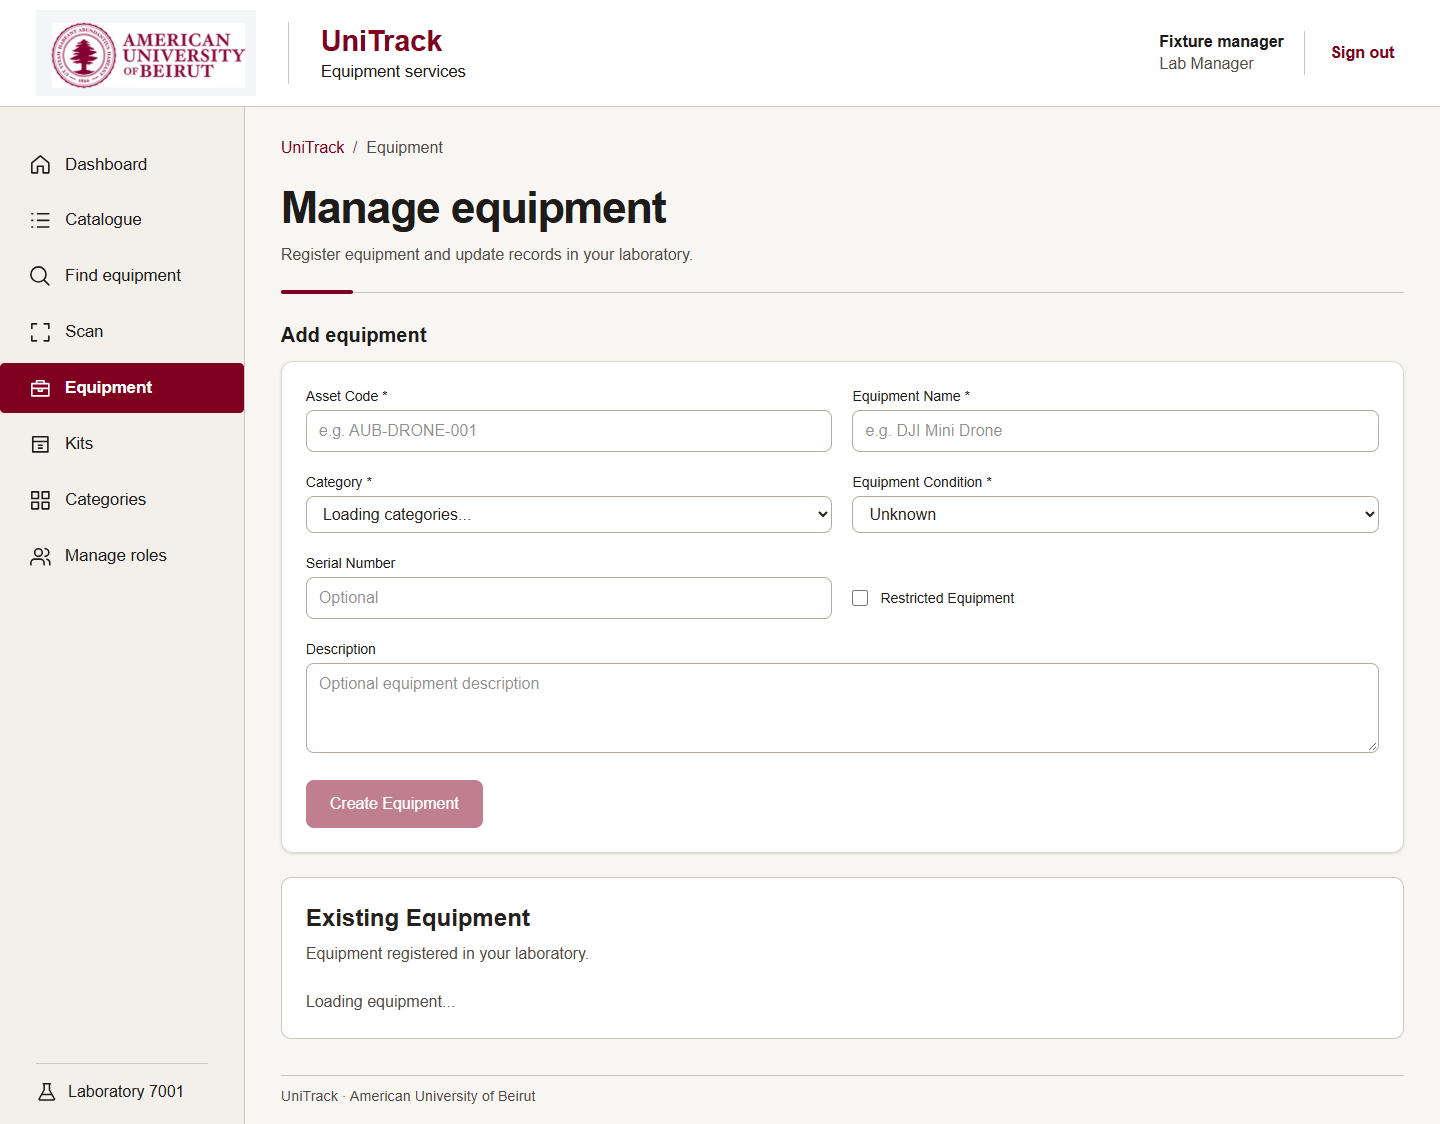
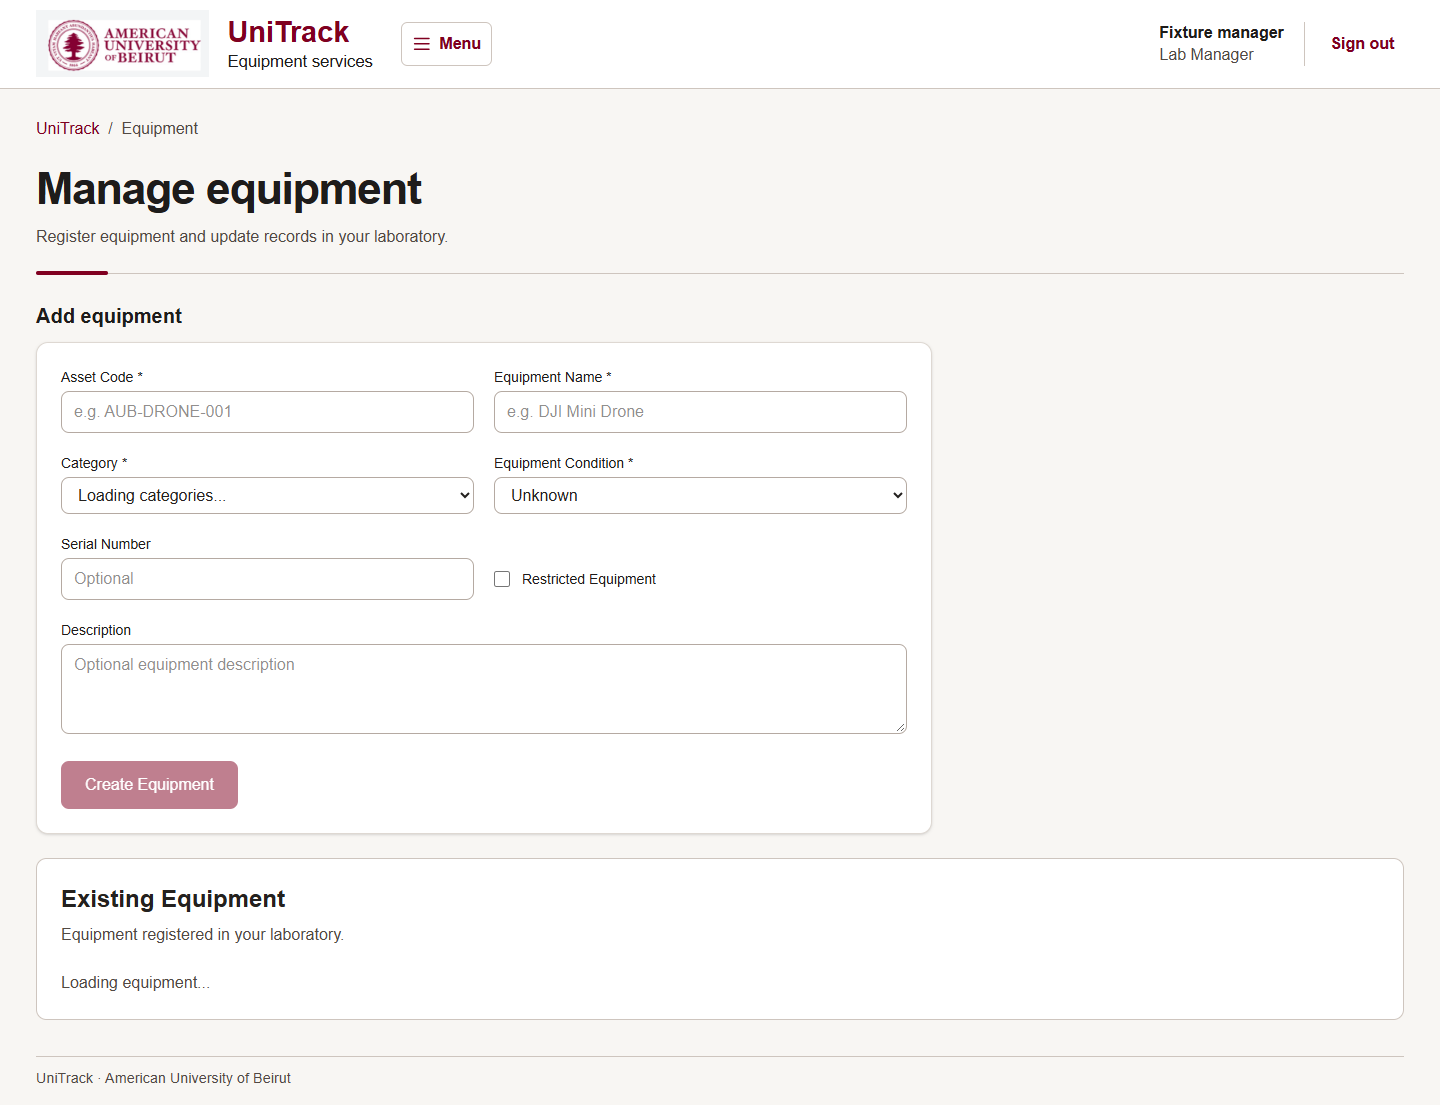
Collapse workspace navigation into a shared header menu

diff --git a/apps/web/app/globals.css b/apps/web/app/globals.css
@@ -30,7 +30,6 @@
   --muted: #514944;
   --brand: #800020;
   --gutter: clamp(1rem, 2.5vw, 2.3rem);
-  --sidebar-width: clamp(12.25rem, 17vw, 16.25rem);
 }
 
 html { min-height: 100%; }
@@ -93,7 +92,7 @@ body {
 .workspace-shell {
   display: grid;
   min-height: 100dvh;
-  grid-template: "skip skip" auto "header header" auto "sidebar content" 1fr / var(--sidebar-width) minmax(0, 1fr);
+  grid-template: "skip" auto "header" auto "content" 1fr / minmax(0, 1fr);
 }
 
 .institutional-header {
@@ -112,20 +111,18 @@ body {
   display: inline-flex;
   min-width: 0;
   align-items: center;
-  gap: clamp(.65rem, 2.2vw, 2rem);
+  gap: clamp(.65rem, 1.3vw, 1.2rem);
   color: var(--ink);
 }
 
 .brand img {
-  width: clamp(7.6rem, 15.3vw, 14.5rem);
+  width: clamp(5.6rem, 12vw, 11.75rem);
   height: auto;
 }
 
 .brand-wordmark {
   display: grid;
   gap: .2rem;
-  padding: .22rem 0 .22rem clamp(.65rem, 2.2vw, 2rem);
-  border-left: 1px solid var(--line);
   line-height: 1.15;
 }
 
@@ -135,6 +132,16 @@ body {
 }
 
 .brand-wordmark > span { font-size: clamp(.78rem, 1.25vw, 1.04rem); }
+
+.workspace-header { position: relative; z-index: 1; }
+
+.workspace-header-start {
+  display: flex;
+  flex-wrap: wrap;
+  align-items: center;
+  gap: .5rem clamp(.65rem, 2vw, 1.75rem);
+  min-width: 0;
+}
 
 .workspace-account {
   display: flex;
@@ -187,34 +194,36 @@ body {
   font-weight: 700;
 }
 
-.workspace-menu {
-  grid-area: sidebar;
-  display: flex;
-  min-width: 0;
-  border-right: 1px solid var(--line);
-  background: var(--sidebar);
+.menu-toggle {
+  display: inline-flex;
+  align-items: center;
+  gap: .4rem;
+  border: 1px solid var(--line);
 }
 
-.menu-toggle { display: none; }
-
 .workspace-menu-panel {
-  display: flex;
-  width: 100%;
-  flex-direction: column;
-  justify-content: space-between;
-  gap: 2rem;
-  padding-block: 2rem 1.25rem;
+  position: absolute;
+  inset-block-start: calc(100% + .35rem);
+  inset-inline-start: var(--gutter);
+  width: min(19rem, calc(100% - 2 * var(--gutter)));
+  max-height: min(27rem, 65dvh);
+  overflow: auto;
+  padding: .5rem;
+  border: 1px solid var(--line);
+  border-radius: .65rem;
+  background: var(--paper);
+  box-shadow: 0 .3rem 1rem #302c2920;
 }
 
 .workspace-menu ul { display: grid; gap: .35rem; }
 
 .workspace-menu a {
   display: flex;
-  min-height: 3.15rem;
+  min-height: 2.75rem;
   align-items: center;
   gap: .85rem;
   border-radius: .28rem;
-  padding: .5rem clamp(.9rem, 2vw, 2rem);
+  padding: .5rem .8rem;
   font-size: 1.05rem;
 }
 
@@ -232,8 +241,8 @@ body {
   display: flex;
   align-items: center;
   gap: .65rem;
-  margin-inline: var(--gutter);
-  padding-top: 1rem;
+  margin: .5rem .35rem 0;
+  padding: .65rem .45rem .2rem;
   border-top: 1px solid var(--line);
 }
 
@@ -241,6 +250,8 @@ body {
   grid-area: content;
   display: flex;
   min-width: 0;
+  width: min(100%, 90rem);
+  margin-inline: auto;
   flex-direction: column;
   padding: clamp(1.25rem, 2vw, 2rem) var(--gutter) 1rem;
 }
@@ -398,22 +409,18 @@ body {
 .public-panel h1 { font-size: clamp(1.75rem, 3vw, 2.3rem); }
 .public-shell .site-footer { margin: 0 var(--gutter) 1rem; }
 
+@media (min-width: 45rem) {
+  .workspace-menu { position: relative; }
+  .workspace-menu-panel { inset-inline-start: 0; width: 19rem; }
+}
+
 @media (max-width: 68rem) {
   .catalogue-card-heading { grid-template-columns: auto minmax(0, 1fr); }
   .catalogue-status { grid-column: 2; text-align: left; }
 }
 
-@media (max-width: 54rem) {
-  .workspace-shell { grid-template: "skip" auto "header" auto "sidebar" auto "content" 1fr / minmax(0, 1fr); }
-  .workspace-menu { display: block; border-right: 0; border-bottom: 1px solid var(--line); }
-  .menu-toggle { display: flex; align-items: center; gap: .55rem; margin: .25rem var(--gutter); }
-  .workspace-menu-panel { display: none; padding: .2rem var(--gutter) .85rem; gap: .6rem; }
-  .workspace-menu-panel[data-open="true"] { display: flex; }
-  .workspace-menu a { min-height: 2.75rem; }
-  .workspace-lab { margin-inline: 0; padding-top: .65rem; }
-}
-
 @media (max-width: 39rem) {
+  .brand img { width: clamp(5.6rem, 26vw, 7rem); }
   .workspace-account { width: 100%; justify-content: space-between; padding-top: .25rem; border-top: 1px solid var(--color-slate-200); font-size: .9rem; }
   .workspace-account form { border-left: 0; padding-left: 0; }
   .catalogue-filters, .catalogue-grid { grid-template-columns: minmax(0, 1fr); }

diff --git a/apps/web/components/workspace-menu.tsx b/apps/web/components/workspace-menu.tsx
@@ -2,34 +2,66 @@
 
 import Link from "next/link";
 import { usePathname } from "next/navigation";
-import { useRef, useState } from "react";
+import { useCallback, useEffect, useRef, useState } from "react";
 import { Icon } from "./icon";
 import type { WorkspaceLink } from "./workspace-links";
 
 export function WorkspaceMenu({ links, labId }: { links: WorkspaceLink[]; labId: number }) {
   const pathname = usePathname();
   const [open, setOpen] = useState(false);
+  const menu = useRef<HTMLDivElement>(null);
   const toggle = useRef<HTMLButtonElement>(null);
   const scanWorkflow = pathname.startsWith("/handover/") || pathname.startsWith("/return/");
 
-  return (
-    <div className="workspace-menu" onKeyDown={(event) => {
-      if (event.key === "Escape" && open) {
-        setOpen(false);
-        toggle.current?.focus();
+  const dismiss = useCallback(() => {
+    setOpen(false);
+    toggle.current?.focus();
+  }, []);
+
+  useEffect(() => {
+    if (!open) return;
+
+    function handleOutsidePointer(event: PointerEvent) {
+      if (event.target instanceof Node && !menu.current?.contains(event.target)) {
+        dismiss();
       }
-    }}>
+    }
+
+    document.addEventListener("pointerdown", handleOutsidePointer);
+    return () => document.removeEventListener("pointerdown", handleOutsidePointer);
+  }, [open, dismiss]);
+
+  return (
+    <div
+      ref={menu}
+      className="workspace-menu"
+      onKeyDown={(event) => {
+        if (event.key === "Escape" && open) {
+          event.preventDefault();
+          dismiss();
+        }
+      }}
+      onBlur={(event) => {
+        if (!event.currentTarget.contains(event.relatedTarget)) setOpen(false);
+      }}
+    >
       <button
         type="button"
         ref={toggle}
         className="menu-toggle"
         aria-expanded={open}
         aria-controls="workspace-menu-panel"
-        onClick={() => setOpen(!open)}
+        onClick={() => {
+          if (open) dismiss();
+          else {
+            toggle.current?.focus();
+            setOpen(true);
+          }
+        }}
       >
-        <Icon name={open ? "close" : "menu"} /> Menu
+        <Icon name="menu" /> Menu
       </button>
-      <div id="workspace-menu-panel" className="workspace-menu-panel" data-open={open}>
+      <div id="workspace-menu-panel" className="workspace-menu-panel" hidden={!open}>
         <nav aria-label="Primary navigation">
           <ul>
             {links.map(({ href, icon, label }) => {
@@ -37,7 +69,7 @@ export function WorkspaceMenu({ links, labId }: { links: WorkspaceLink[]; labId:
               const related = scanWorkflow && href === "/scan";
               return (
                 <li key={href}>
-                  <Link href={href} aria-current={current ? "page" : related ? "location" : undefined} onClick={() => setOpen(false)}>
+                  <Link href={href} aria-current={current ? "page" : related ? "location" : undefined} onClick={dismiss}>
                     <Icon name={icon} /> {label}
                   </Link>
                 </li>

diff --git a/apps/web/components/KitManagementClient.tsx b/apps/web/components/KitManagementClient.tsx
@@ -112,7 +112,7 @@ export default function KitManagementClient() {
       <PageHeading title="Kit management" section="Kits" description="Create kits and manage their tracked components." />
       {error && <p role="alert" className="rounded-lg bg-red-50 p-3 text-red-800">{error}</p>}
       {success && <p role="status" className="rounded-lg bg-green-50 p-3 text-green-800">{success}</p>}
-      <section className="rounded-xl border border-slate-200 bg-white p-5 shadow-sm">
+      <section className="max-w-4xl rounded-xl border border-slate-200 bg-white p-5 shadow-sm">
         <h2 className="text-lg font-semibold">Create a kit</h2>
         <form className="mt-4 grid gap-4 sm:grid-cols-2" onSubmit={create}>
           <label className="text-sm font-medium">Main QR / asset code<input className={input} name="asset_code" required maxLength={50} /></label>
@@ -123,7 +123,7 @@ export default function KitManagementClient() {
           <button disabled={busy} className="min-h-11 rounded-lg bg-aub-700 px-4 font-semibold text-white disabled:opacity-50 sm:col-span-2">{busy ? "Saving…" : "Create kit"}</button>
         </form>
       </section>
-      <section className="space-y-4"><h2 className="text-lg font-semibold">Existing kits</h2>
+      <section className="max-w-5xl space-y-4"><h2 className="text-lg font-semibold">Existing kits</h2>
         {!kits.length && <p className="text-slate-600">No kits have been created for this laboratory.</p>}
         {kits.map(kit => {
           const active = kit.components.filter(component => component.is_active);

diff --git a/apps/web/components/app-navigation.tsx b/apps/web/components/app-navigation.tsx
@@ -8,8 +8,11 @@ export function AppNavigation({ profile }: { profile: Profile }) {
   return (
     <>
       <a className="skip-link" href="#main-content">Skip to content</a>
-      <header className="institutional-header">
-        <Brand href="/dashboard" />
+      <header className="institutional-header workspace-header">
+        <div className="workspace-header-start">
+          <Brand href="/dashboard" />
+          <WorkspaceMenu links={workspaceLinks(profile.role)} labId={profile.lab_id} />
+        </div>
         <div className="workspace-account">
           <div className="account-identity">
             <strong>{profile.full_name}</strong>
@@ -20,7 +23,6 @@ export function AppNavigation({ profile }: { profile: Profile }) {
           </form>
         </div>
       </header>
-      <WorkspaceMenu links={workspaceLinks(profile.role)} labId={profile.lab_id} />
     </>
   );
 }

diff --git a/apps/web/tests/roles-navigation.test.tsx b/apps/web/tests/roles-navigation.test.tsx
@@ -38,6 +38,9 @@ describe("roles and navigation", () => {
     expect(markup).toContain('href="/dashboard"');
     expect(markup).toContain(roleLabel(role));
     expect(markup).toContain("Laboratory 7");
+    expect(markup).toContain('aria-expanded="false"');
+    expect(markup).toContain('aria-controls="workspace-menu-panel"');
+    expect(markup).toMatch(/id="workspace-menu-panel"[^>]+hidden=""/);
     expect(markup).toMatch(/href="\/catalogue" aria-current="page"|aria-current="page" href="\/catalogue"/);
     expect(markup.match(/aria-label="Primary navigation"/g)).toHaveLength(1);
 

diff --git a/apps/web/components/equipment-creation-client.tsx b/apps/web/components/equipment-creation-client.tsx
@@ -126,7 +126,7 @@ export default function EquipmentCreationClient() {
       <PageHeading title="Manage equipment" section="Equipment" description="Register equipment and update records in your laboratory." />
       <h2 className="mb-3 text-xl font-semibold">Add equipment</h2>
 
-      <div className="rounded-xl border border-slate-200 bg-white p-6 shadow-sm">
+      <div className="max-w-4xl rounded-xl border border-slate-200 bg-white p-6 shadow-sm">
         <form onSubmit={handleSubmit} className="space-y-5">
           <div className="grid gap-5 md:grid-cols-2">
             <div>

diff --git a/apps/web/components/category-management-client.tsx b/apps/web/components/category-management-client.tsx
@@ -175,7 +175,7 @@ export default function CategoryManagementClient() {
       </section>
 
       {/* Create category */}
-      <section className="rounded-xl border border-slate-200 bg-white p-6 shadow-sm">
+      <section className="max-w-3xl rounded-xl border border-slate-200 bg-white p-6 shadow-sm">
         <h2 className="mb-5 text-xl font-semibold text-slate-900">
           Create New Category
         </h2>

diff --git a/apps/web/components/icon.tsx b/apps/web/components/icon.tsx
@@ -13,7 +13,6 @@ const paths = {
   users: "M16 21v-2a4 4 0 0 0-4-4H6a4 4 0 0 0-4 4v2m12-13a4 4 0 1 1-8 0 4 4 0 0 1 8 0Zm8 13v-2a4 4 0 0 0-3-4m-2-11a4 4 0 0 1 0 8",
   lab: "M9 3v7L4 19a1 1 0 0 0 1 2h14a1 1 0 0 0 1-2l-5-9V3M8 3h8M7 15h10",
   menu: "M4 6h16M4 12h16M4 18h16",
-  close: "m6 6 12 12M18 6 6 18",
   arrow: "M4 12h15m-6-6 6 6-6 6",
 } as const;
 

diff --git a/docs/aub-frontend-review.md b/docs/aub-frontend-review.md
@@ -8,13 +8,15 @@
 | Initial AUB implementation | `d7b7cc1a10d2a1fdd71d29f5c340fa89a6174507` |
 | Initial review evidence, direct child of the implementation | `f488fc86adb452edb812f3329bbe357efed5025e` |
 | Focused Web implementation | `5039d63a02e17f465963502e8fa508ca8a95e015` |
+| Review and screenshot update before the header menu | `082a53bbf4af0e22f6a080cfcb031ceaf4de2644` |
 
 ## Review findings
 
 - The AUB workspace covers login, access denial, missing pages, dashboard, catalogue, lookup, scan, custody forms, and manager equipment, kits, categories, and roles. The catalogue retains its URL and uses Equipment’s name and asset-code search. On scan, asset-code lookup now comes before the scanner’s manual UUID fallback. Catalogue icons use known category names or the kit flag, with a generic icon for unknown categories.
 - At 375 pixels on handover and return, the skip link is visually clipped until focused. Keyboard focus puts it in a row above the header. Enter moves focus to `main#main-content`, then the link is visually clipped again. The updated screenshots were captured after clearing focus.
+- A single three-line Menu button opens the same role-aware navigation on desktop and mobile. The menu starts closed, and the layout uses the space formerly occupied by the sidebar. Forms retain readable maximum widths. Escape restores focus to Menu. Clicking outside or selecting a destination closes the overlay. Active links and dashboard shortcuts remain available.
 - The original screenshot fixture saved the Loans result as `checked_out` but kept returning a static `reserved` Equipment snapshot. The handover UI used the snapshot for both labels. The fixture now advances its Equipment snapshot on successful checkout. The UI uses the validated confirmation or recovery response for “Equipment status at handover” and the Equipment read for “Current equipment status.” A focused regression passes through the Web gateway and service handlers with a deliberately different Equipment read. A reopened record shows its current status using the live Equipment read. The existing Loans service checks the checkout receipt and status before recording completion. The inconsistent screenshot established no backend defect.
-- The light gray border comes from opaque pixels in the supplied PNG. The logo wrapper has no separate background, and the asset’s Git blob is identical to the initial implementation.
+- The header uses a smaller, proportional logo without a wrapper divider. The pale rectangle comes from opaque pixels in the supplied PNG, whose Git blob is identical to the initial implementation. Removing the rectangle requires a transparent original from the source.
 - Run the real services with `npm run dev:all` and open `http://localhost:3000`. Next.js accepted the HMR upgrade with HTTP 101 on `localhost` and logged a development-origin denial for `127.0.0.1`. The real student dashboard hydrated on the documented hostname, and the synthetic signed-in browser suite also passed there in dev mode. Origin checks, authentication, and TLS settings are unchanged.
 
 ## Verification
@@ -23,10 +25,11 @@
 | --- | --- | --- |
 | Final workspace scripts | PASS | `npm run typegen`, `npm test`, `npm run lint`, `npm run typecheck`, and `npm run build` exited 0. The default suite passed 915 tests and skipped 50 PostgreSQL cases. |
 | Disposable PostgreSQL | PASS | Reused the prior standard harness result for unchanged services and schema. It ran the 50 cases, including all 10 status-guard and 26 handover tests. |
-| Real services and existing browser session | PASS | Four health endpoints returned HTTP 200. Anonymous protected pages redirected and the catalogue API returned 401. The existing Chrome student session loaded the dashboard and made an authenticated `GET /api/returns/problems/mine` that returned 200 through Web and Loans. |
+| Real services and existing browser session | PASS | After the header update, all four health endpoints returned HTTP 200, anonymous protected pages redirected, and the catalogue API returned 401. A 61.9-second development browser probe retained both login fields with zero reloads after a brief startup refresh burst. Earlier live student verification reached the dashboard and the Web and Loans return-problems endpoints returned HTTP 200. |
 | Authenticated Chromium with synthetic upstreams | PASS | Desktop and mobile catalogue, clipped and focused skip link, correct skip target, asset-code lookup placement, role denial, manager screens, reservation submission, handover confirmation and recovery, normal and fresh damaged returns, history and student issue visibility. |
+| Shared header menu in Chromium with synthetic upstreams | PASS | Student, Professor, Lab Assistant, and Lab Manager at 1440 and 375 pixels. Checked default closure, exact role links, active link, Enter and Tab, Escape and restored focus, outside click, closing on navigation, and manager form width. |
 | Synthetic QR camera | PASS | Chromium decoded a prerecorded QR stream and stopped the scanner. |
-| Live role and custody acceptance | BLOCKED | The active student session’s test designation, other designated role access, and eligible shared test equipment were unavailable. No shared records were mutated. |
+| Live role and custody acceptance | BLOCKED | The reported Professor role supports read-only catalogue, lookup, and scan checks. The dedicated InPrivate window was awaiting sign-in. The custody workflow needs separate designated role access and equipment. No shared records were mutated. |
 | Physical-device camera and deployed acceptance | NOT RUN | Desktop Chromium emulated mobile viewports and camera input. |
 
 The initial baseline build stopped at a Next.js version notice. Restoring the lockfile pin with `npm ci` resolved that. Earlier disposable harness runs hit a sub-millisecond status-guard case and a transient container socket startup error. Its final standard run passed.
@@ -35,8 +38,9 @@ The initial baseline build stopped at a Next.js version notice. Restoring the lo
 
 - Login [desktop](aub-theme-screenshots/login-desktop.png) and [mobile](aub-theme-screenshots/login-mobile.png)
 - Updated catalogue [desktop](aub-theme-screenshots/catalogue-desktop-fixture.png) and [mobile](aub-theme-screenshots/catalogue-mobile-fixture.png)
-- Updated [manager equipment](aub-theme-screenshots/manager-equipment-desktop-fixture.png), [scan](aub-theme-screenshots/scan-mobile-fixture.png), and [handover](aub-theme-screenshots/handover-mobile-fixture.png)
-- Updated [normal return history](aub-theme-screenshots/return-history-mobile-fixture.png) and [problematic return history](aub-theme-screenshots/problem-return-mobile-fixture.png)
+- Open menu [desktop](aub-theme-screenshots/menu-desktop-fixture.png) and [mobile](aub-theme-screenshots/menu-mobile-fixture.png)
+- Updated [manager equipment](aub-theme-screenshots/manager-equipment-desktop-fixture.png) and [scan](aub-theme-screenshots/scan-mobile-fixture.png)
+- Previous custody verification [handover](aub-theme-screenshots/handover-mobile-fixture.png), [normal return history](aub-theme-screenshots/return-history-mobile-fixture.png), and [problematic return history](aub-theme-screenshots/problem-return-mobile-fixture.png)
 
 The authenticated screenshots contain synthetic profiles and equipment.
 
@@ -44,6 +48,6 @@ The authenticated screenshots contain synthetic profiles and equipment.
 
 **NOT READY for live acceptance.** Provide the following for the remaining checks.
 
-- Confirm the existing student session is a designated test account or provide a designated student sign-in. Provide a designated lab assistant in the same lab and a designated lab manager for live manager checks.
+- Sign in as Professor in the dedicated Edge InPrivate window for live read-only checks. Provide a designated student and lab assistant in the same lab for custody checks, and a designated lab manager for live manager checks.
 - Identify eligible test equipment by asset code in that lab for new normal and problem-return scenarios, with a pickup window available for the test. Use fresh reservations and loans.
 - Provide a physical phone and QR label for device acceptance, and an accessible deployed URL if deployed acceptance is required.
